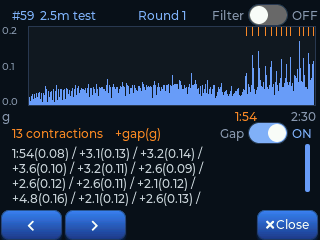
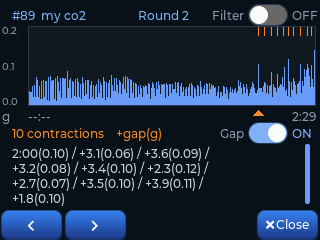
docs: 컨트랙션 그래프 확대 캡처 + 랜딩 문구 (보조배터리)
- 매뉴얼 8.6 에 확대 화면 캡처 한 장 (한·영). 배율과 첫 컨트랙션 삼각형이
  한 화면에 같이 나와, 새로 들어간 둘을 한 장이 다 보여 준다
- 컨트랙션 그래프 캡처를 별님이 새로 찍은 것으로 (한·영)
- 랜딩 two modes — "이퀄 툴도 스마트폰도 **보조배터리도** 따로 챙길 필요 없이"
  보조배터리가 있어야 도는 제품이 실제로 유통되고, 그 불편을 없애자는 것이
  이 장비의 취지 중 하나였다 (별님)

🤖 Generated with [Claude Code](https://claude.com/claude-code)

diff --git a/manual.html b/manual.html
@@ -829,7 +829,9 @@ SD 카드에 문제가 있으면 <strong>내부 메모리에 대신 저장</stro
   <li>위쪽의 <strong>주황색 표시</strong>가 컨트랙션으로 센 자리입니다. 그래프 아래에는 시각과 세기가 차례로 적힙니다.</li>
   <li>그래프 아래 시간 눈금의 <strong>삼각형</strong>이 <strong>첫 컨트랙션 자리</strong>입니다 (펌웨어 2.4b~).</li>
   <li>두 손가락으로 <strong>확대</strong>하고 좌우로 밀어 <strong>옮길 수 있습니다</strong> (펌웨어 2.4b~).
-      라운드를 넘겨도 보던 자리가 그대로 남아, 여러 판의 같은 구간을 이어서 볼 수 있습니다.</li>
+      라운드를 넘겨도 보던 자리가 그대로 남아, 여러 판의 같은 구간을 이어서 볼 수 있습니다.
+
+      <figure class="fig shot"><img src="assets/screen-co2-graph-zoom.png" alt="컨트랙션 그래프를 확대한 화면"><figcaption>확대하면 붙어 있던 봉우리가 갈라져 보입니다. 가운데 아래 <strong>배율</strong>과 시간 눈금의 <strong>삼각형</strong>(첫 컨트랙션)도 함께 나옵니다</figcaption></figure></li>
   <li>오른쪽 위 <strong>필터</strong> 스위치를 켜면 <strong>잔진동을 걷어낸 그래프</strong>로 바뀝니다.
       어느 봉우리가 컨트랙션으로 세어졌는지 눈으로 확인할 때 씁니다.</li>
   <li>오른쪽 아래 <strong>간격</strong> 스위치를 켜면 목록의 <strong>둘째 항목부터

diff --git a/en/manual.html b/en/manual.html
@@ -814,7 +814,8 @@ close up are <strong>an indicator of where you are.</strong></p>
   <li>The <strong>orange marks</strong> along the top are where a contraction was counted. Below the graph each one is listed with its time and strength.</li>
   <li>The <strong>triangle</strong> on the time scale below the graph marks the <strong>first contraction</strong> (firmware 2.4b and later).</li>
   <li>Pinch to <strong>zoom</strong> and drag sideways to <strong>pan</strong> (firmware 2.4b and later).
-      Your position is kept when you move between rounds, so you can compare the same stretch across rounds.</li>
+      Your position is kept when you move between rounds, so you can compare the same stretch across rounds.
+      <figure class="fig shot"><img src="../assets/en/screen-co2-graph-zoom.png" alt="The contraction graph zoomed in"><figcaption>Zoomed in, peaks that ran together come apart. The <strong>zoom level</strong> below the middle and the <strong>triangle</strong> on the time scale (the first contraction) show here too</figcaption></figure></li>
   <li>Turn on the <strong>Filter</strong> switch at the top right for <strong>the graph with the small ripples taken out</strong>.
       Use it to see with your own eyes which peaks were counted.</li>
   <li>Turn on the <strong>Gap</strong> switch at the bottom right and the list shows <strong>the time since the previous

diff --git a/index.html b/index.html
@@ -358,7 +358,7 @@
       </div>
     </div>
 
-    <p class="flow-note" style="margin-top:22px;">이퀄 툴도 스마트폰도 따로 챙길 필요 없이, <b>Equalscope 하나만 가방에 넣으면 됩니다.</b> 앱·연결·알림 같은 변수도 없어, <b>켜서 바로 측정</b>할 수 있습니다.<br>펌웨어 업데이트로 호흡 훈련이 더해졌듯, <b>프리다이버와 함께 성장하는 제품</b>을 만들겠다는 처음의 약속은 변하지 않습니다.</p>
+    <p class="flow-note" style="margin-top:22px;">이퀄 툴도 스마트폰도 보조배터리도 따로 챙길 필요 없이, <b>Equalscope 하나만 가방에 넣으면 됩니다.</b> 앱·연결·알림 같은 변수도 없어, <b>켜서 바로 측정</b>할 수 있습니다.<br>펌웨어 업데이트로 호흡 훈련이 더해졌듯, <b>프리다이버와 함께 성장하는 제품</b>을 만들겠다는 처음의 약속은 변하지 않습니다.</p>
   </section>
 
   <section class="alt">

diff --git a/en/index.html b/en/index.html
@@ -368,7 +368,7 @@
       </div>
     </div>
 
-    <p class="flow-note" style="margin-top:22px;">Nothing extra to pack — no separate tool, no phone for an app.
+    <p class="flow-note" style="margin-top:22px;">Nothing extra to pack — no separate tool, no phone for an app, no power bank.
        <b>One device in the bag.</b> No app to launch and nothing to pair, so <b>you can turn it on and measure straight away.</b><br>
        Breathing training arrived as a firmware update, and the promise it came
        from — <b>a device that grows with freedivers</b> — has not changed.</p>
